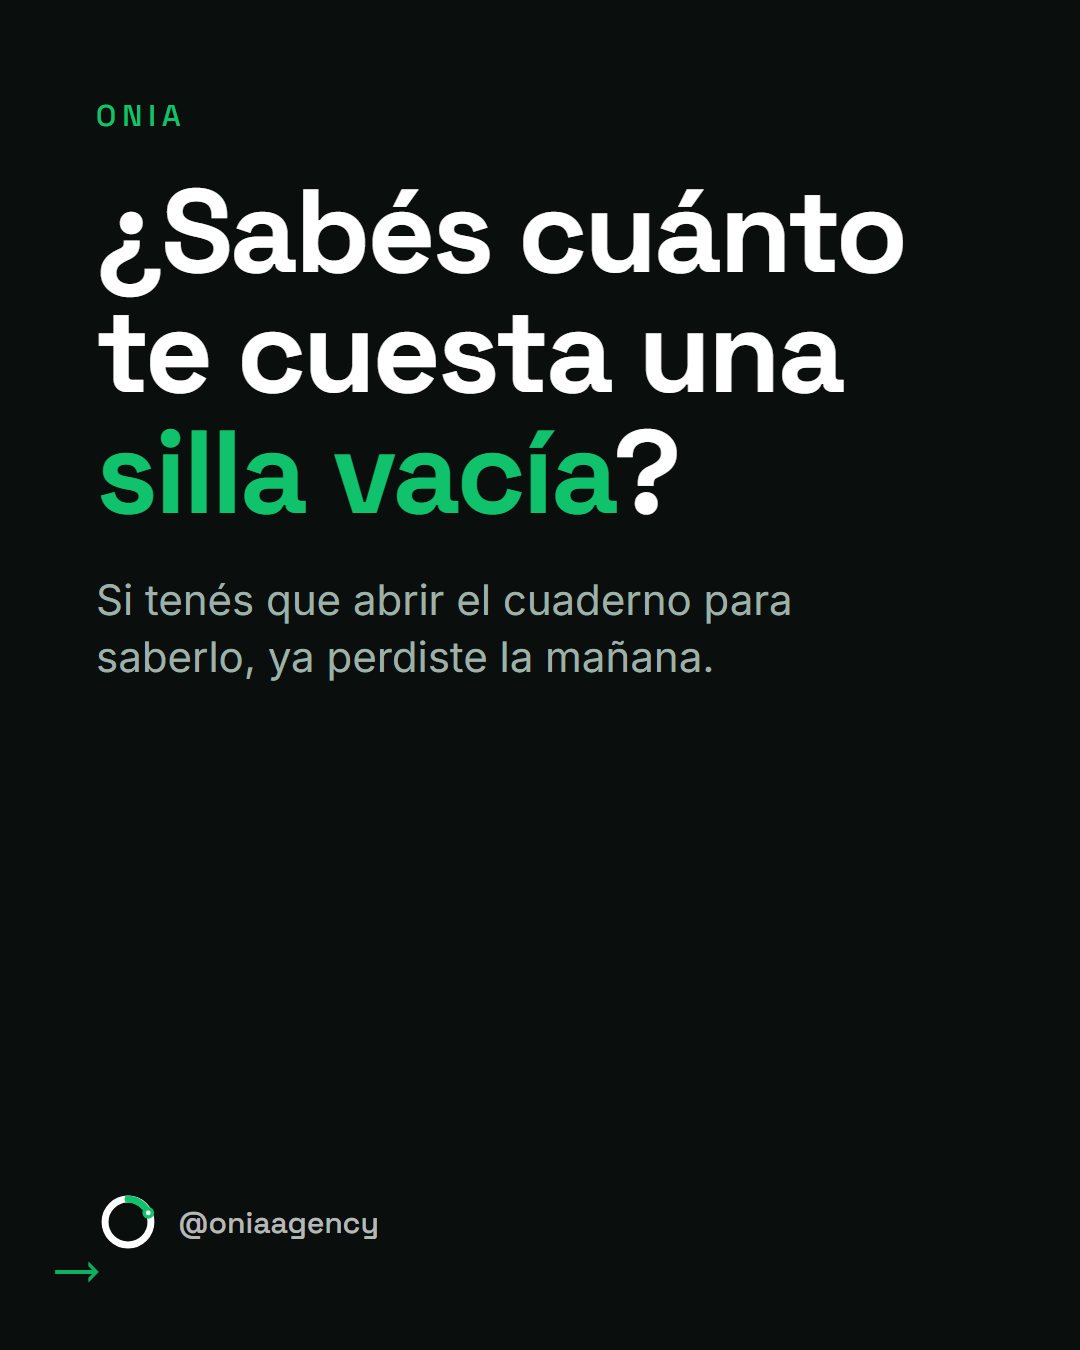
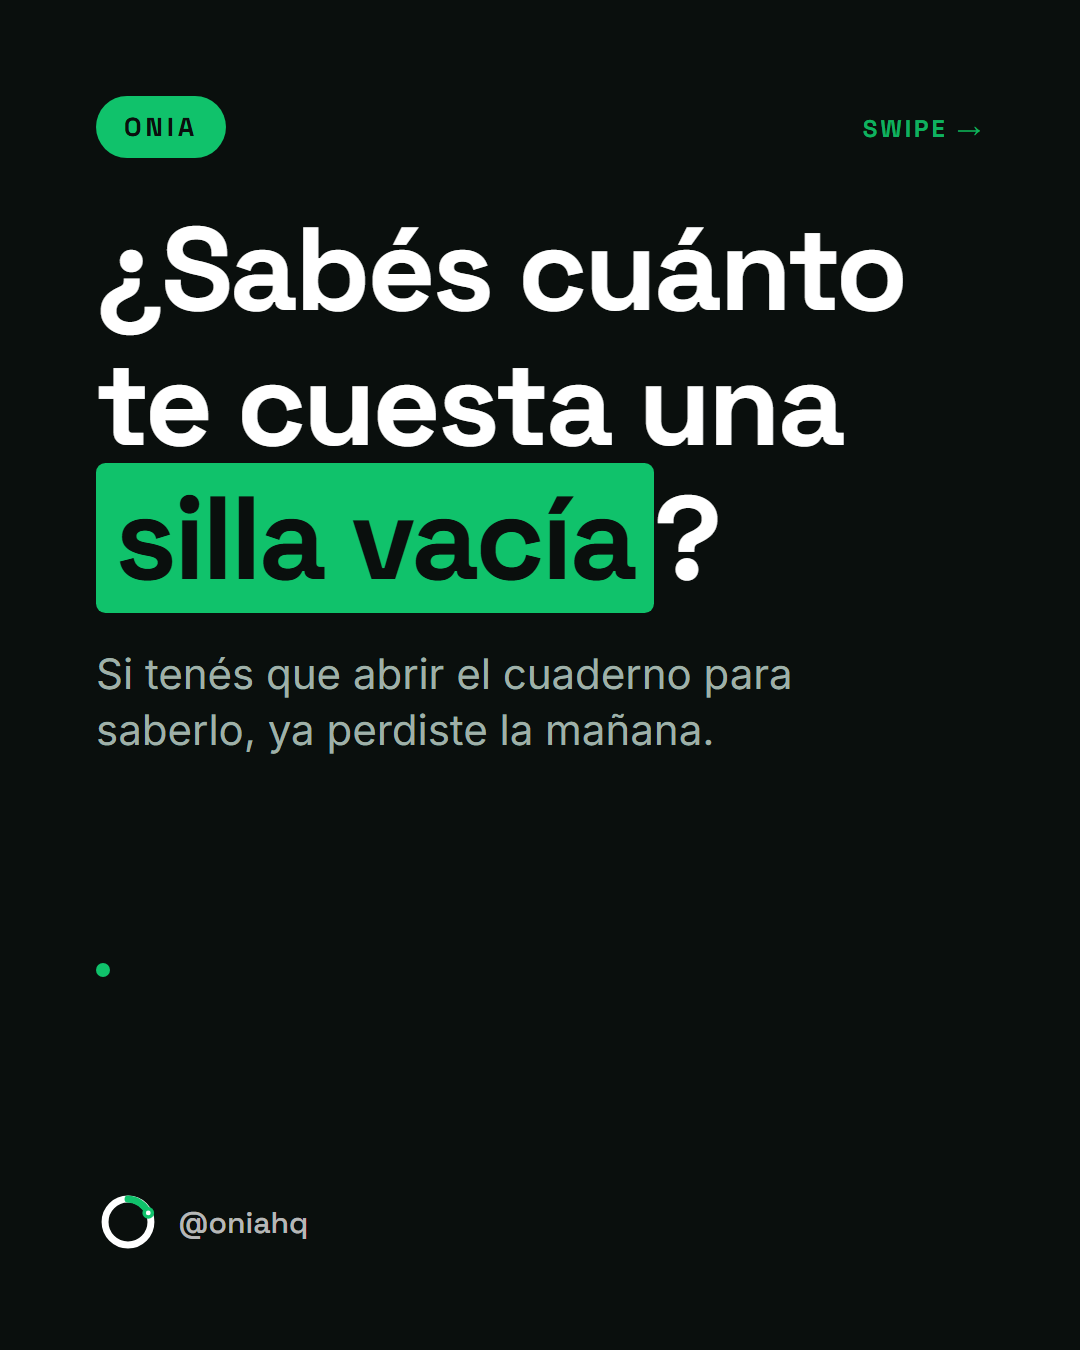
fix(ads): los 3 creativos estampaban un handle viejo — y dicen SWIPE sin tener a donde
Los creativos de la campana 1 llevaban @oniaagency y el renderer vigente estampa @oniahq
(scripts/carousel_render.js:61). Un anuncio pago que manda a un handle equivocado es plata tirada.

COMO SE DECIDIO CUAL ES EL BUENO, porque el camino obvio no sirve: curl a instagram.com devuelve 200 para
CUALQUIER handle, incluido uno inventado — lo probe con 'onia.hq' de control y tambien dio 200. El codigo
HTTP no verifica nada ahi.

La evidencia que si decide es el repo: @oniahq aparece en 65 archivos y @oniaagency en 4, y esos 4 son de
julio y agosto (masterplan de Arthur, un historial, y el doc de la campana). Es el nombre viejo que sobrevivio
en los creativos del 13-ago. Ademas el renderer ya lo tenia bien.

Verificado MIRANDO el JPG, no confiando en que el render 'anduvo': @oniahq abajo.

Y AL MIRARLO APARECIO OTRO DEFECTO que ningun brief declara: los tres dicen 'SWIPE ->' con su punto
indicador, y el render tiene UNA sola lamina. Un anuncio que invita a deslizar y no tiene a donde. Anotado
como item propio: o se le saca el swipe, o se le renderizan las laminas que promete. Es exactamente el tipo
de cosa que un grep no encuentra.

diff --git a/hermes-content/docs/cola/contenido.md b/hermes-content/docs/cola/contenido.md
@@ -41,11 +41,14 @@ faltantes. Lo que falta es **publicar**.
 - [ ] Publicar el día 1 (reel de lanzamiento v7, 22 s, 1080×1920): `hermes-content/references/modelos/lucia/reel-lanzamiento-20260822/final/lucia-lanzamiento-v7.mp4` · 10 min · Sergio
 
 - [x] **Escrito 31-ago.** Caption del reel del día 1, con el porqué de cada decisión y los 3 pasos previos: `hermes-content/references/modelos/lucia/reel-lanzamiento-20260822/CAPTION.md`. Sale del guion real del reel (`hermes-content/references/modelos/lucia/reel-lanzamiento-20260822/TABLA-DE-CORTES.md`), abre con «No soy real» como el primer beat y cierra con «Seguime» como el último. No lleva palabra clave · Claude
-- [ ] Re-renderizar los 3 creativos de ads: estampan **@oniaagency** y el renderer vigente estampa **@oniahq**. Un anuncio que manda a un handle equivocado es plata tirada. Ver `hermes-content/carousels/out/ads/ad-a2-v1-no-volvieron` · 5 min · Claude
+- [x] **Re-renderizados 31-ago con `@oniahq`**, verificado MIRANDO el JPG. La decisión no fue por HTTP: Instagram devuelve 200 hasta para un handle inventado (probé `onia.hq` de control). Se decidió por el repo — @oniahq en 65 archivos contra @oniaagency en 4, todos de jul-ago — y porque el renderer vigente ya lo estampa. Ver `hermes-content/carousels/out/ads/ad-a2-v1-no-volvieron/slide-01.jpg` · Claude
 - [ ] Marcar como NO-SUBIR el render superado de S06: existe en DOS versiones con md5 distinto y en el carril de Sergio ningún doc lo dice. Mismo error de doble render que ya se pagó en Lucía. Ver `hermes-content/references/marca-personal-sergio/render` · 10 min · Claude
 - [ ] Sacarle los CTA a `hermes-content/carousels/briefs` o marcarlo muerto: tiene **cinco palabras fantasma** (MITO, AUTO, COSTO, NUVIA y un LISTA que promete el PDF enterrado), ninguna registrada. El carril vivo de @oniahq es `hermes-content/references/oniahq/briefs`, que está limpio · 15 min · Claude
 
 ## Despues
+
+- [ ] 🔴 Los 3 creativos de ads dicen **«SWIPE →»** y tienen UNA sola lámina. Un anuncio que invita a deslizar y no tiene a dónde. O se le sacan el swipe y el punto indicador, o se le renderizan las láminas que promete. Descubierto mirando el JPG, no leyendo el brief. Ver `hermes-content/carousels/briefs/ads/ad-a2-v1-no-volvieron.json`
+
 
 - [ ] 🔴 MITO es una palabra fantasma: `hermes-content/carousels/briefs/onia-mitos-ia-20260808.json` pide «comenta MITO» en el caption y MITO no está en `scripts/recompensas.json`. Si esa pieza sale, el lead comenta y no recibe nada — es exacto el incidente RANKING del 26-ago. Registrarla o sacarle el CTA.
 
